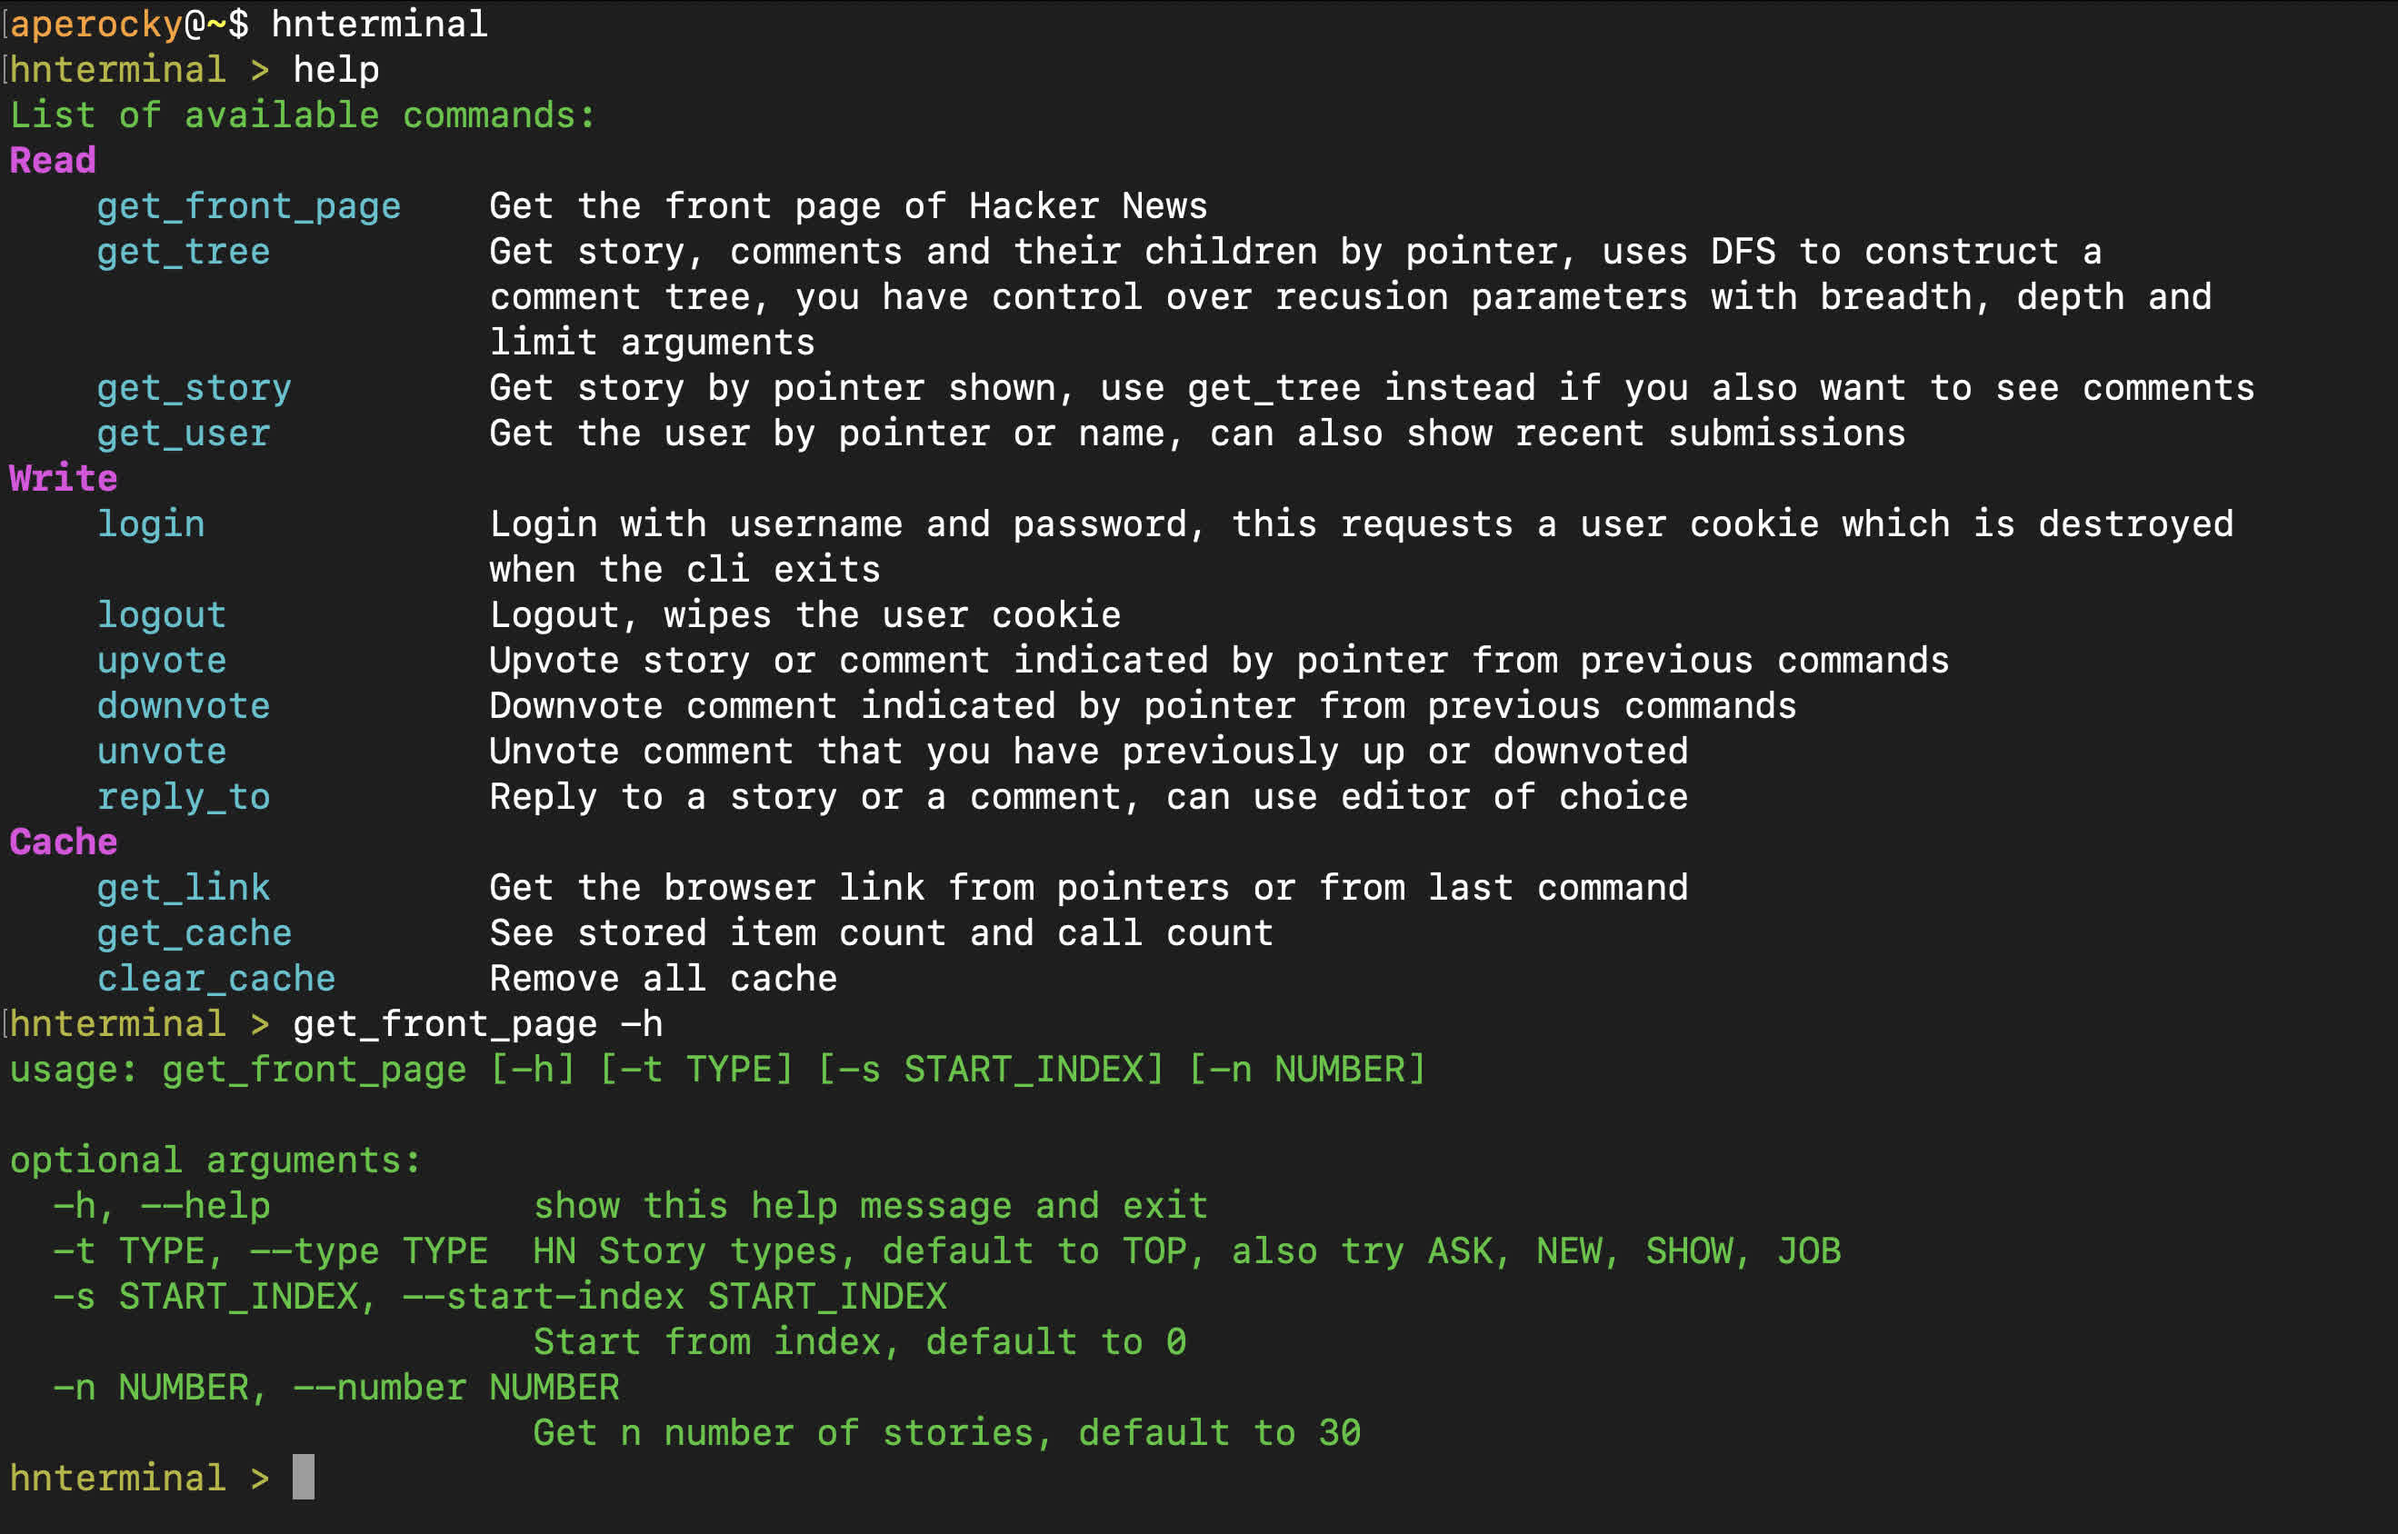
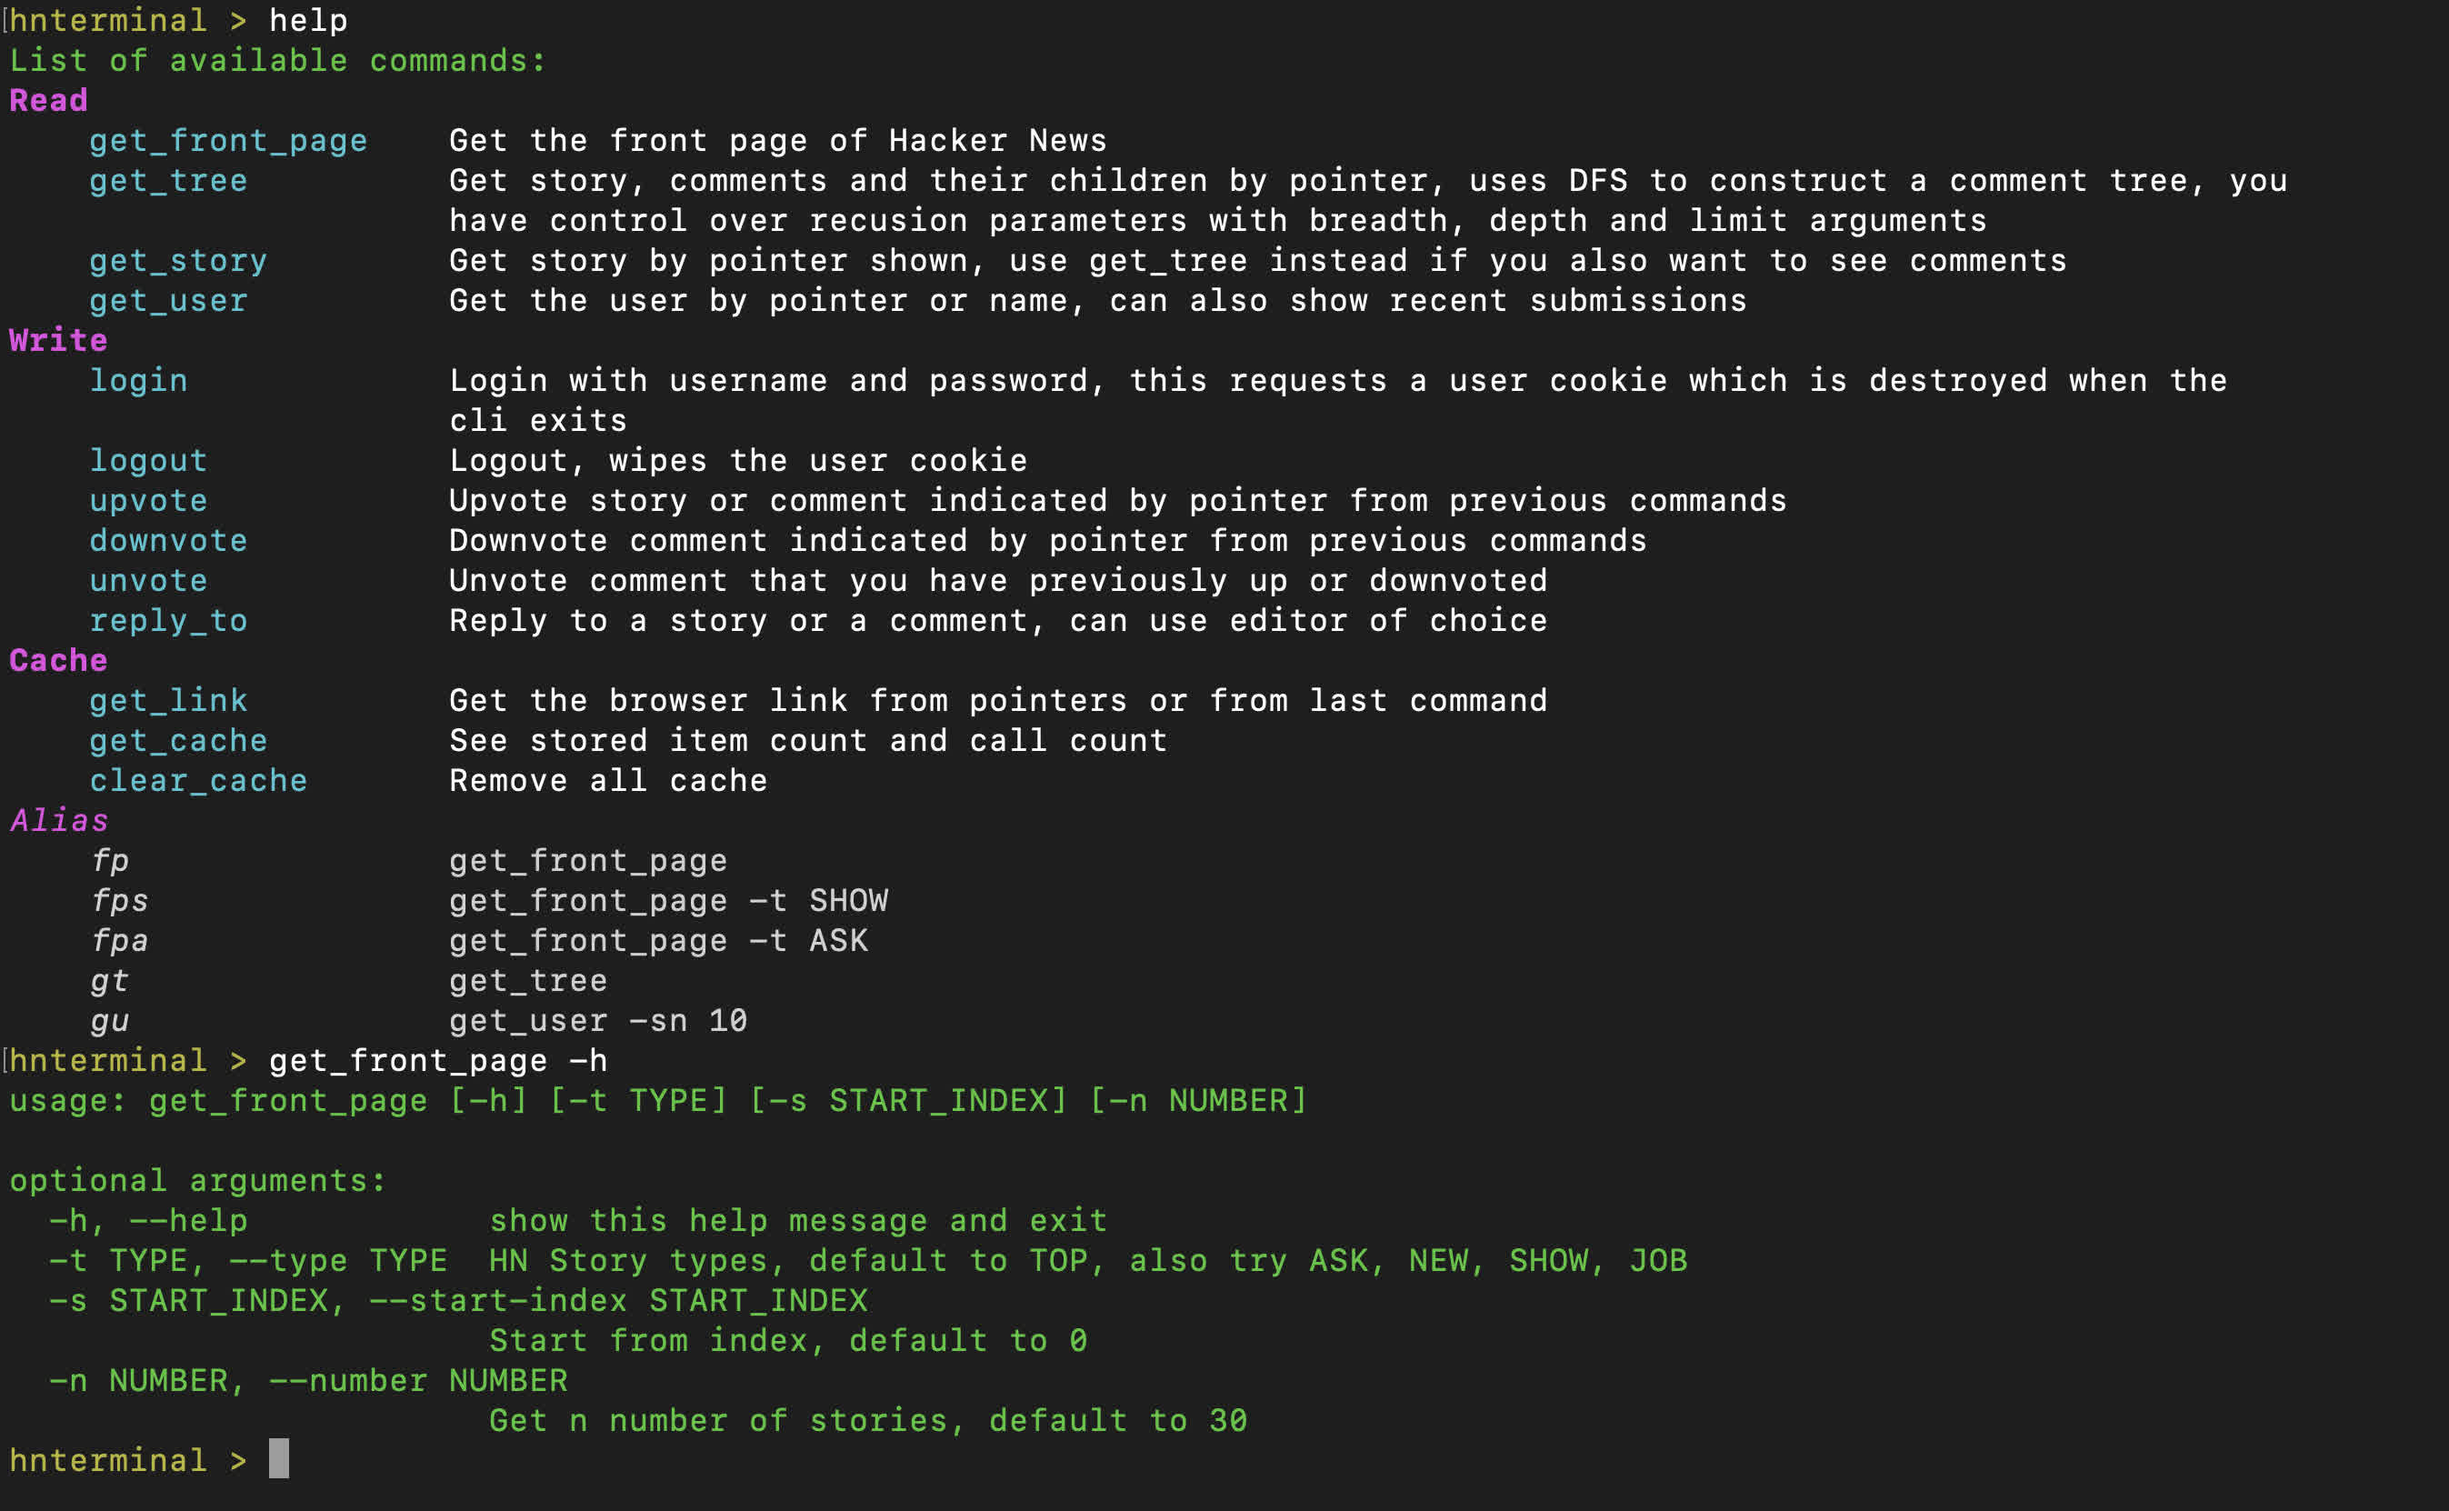
Add aliases for most used commands

diff --git a/src/cli.py b/src/cli.py
@@ -9,6 +9,13 @@ def build_cli():
     cli_runner.add_commands(READ_COMMANDS, namespace="Read")
     cli_runner.add_commands(WRITE_COMMANDS, namespace="Write")
     cli_runner.add_commands(hn_context.get_context_commands(), namespace="Cache")
+    cli_runner.add_aliases({
+        "fp": "get_front_page",
+        "fps": "get_front_page -t SHOW",
+        "fpa": "get_front_page -t ASK",
+        "gt": "get_tree",
+        "gu": "get_user -sn 10"
+    })
     return cli_runner
 
 

diff --git a/src/hnterminal/commands/reply.py b/src/hnterminal/commands/reply.py
@@ -1,6 +1,5 @@
 import os
 import re
-import sys
 import time
 import html
 import argparse
@@ -55,7 +54,6 @@ def send_reply_form(item_id, text, context, is_story=True):
         form_data["goto"] = sub_link
     send_comment_request(form_data, context.user_cookie)
     print("\033[0;32mComment Published\033[0m")
-    sys.stdout.flush()
     context.drop_item(item_id) # Parent will need to be reloaded
 
 

diff --git a/src/hnterminal/commands/votes.py b/src/hnterminal/commands/votes.py
@@ -1,4 +1,3 @@
-import sys
 import argparse
 from http.client import HTTPSConnection
 from bs4 import BeautifulSoup
@@ -62,7 +61,6 @@ def vote(args, context, vote_type):
     hn_get(vote_path, context.user_cookie)
     context.store_vote(item_id, vote_type)
     print("POINTER {} is {}".format(args.pointer, get_vote_stamp(vote_type)))
-    sys.stdout.flush()
 
 
 def upvote(args, context):

diff --git a/README.md b/README.md
@@ -50,6 +50,10 @@ This terminal tool is *responsive!* and the output will be adjusted to the width
 
 ![responsive browsing](images/responsive_term.jpg)
 
+You can also use aliases to shorten most used, repetitive commands:
+
+![alias](images/alias.jpg)
+
 There are more to this tool, for instance, it has the capability to show user info and history, it enables seamless browsing experience by maintaining a cache which status you can check with cache commands, which you may want to clear from time to time to keep it from going stale if you spend hours in this tool. The ultimate goal is to provide the same HN browsing experience in the terminal.
 
 ## Usage (No Image)
